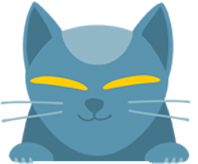
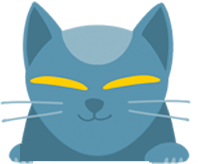
Add files via upload
В блоке услуг добавлен кот.

Changed region(s): [[0.0909, 0.8537, 0.2727, 1.0]]

diff --git a/styles.css b/styles.css
@@ -217,12 +217,38 @@ button{
 	text-align: center;
 }
 
+.services_cat1 {
+    z-index: 1;
+    position: absolute;
+    bottom: -5px;
+    justify-self: center;
+    text-align: center;
+}
+
+.services_cat2{
+    z-index: 0;
+    position: absolute;
+    bottom: -5px;
+    justify-self: center;
+    text-align: center;
+}
+
+.services_cat1 img {
+    min-width: 198px;
+    min-height: 164px;
+}
+
+.services_cat2 img {
+    min-width: 198px;
+    min-height: 164px;
+}
+
 #s_triangles{
 	position: absolute;
 	bottom: 0;
 	right: 0;
 	height: 18px;
-	margin-bottom: -5px;
+	margin-bottom: 0px;
 	width: 100%;
 	background-position: right;
 	background-image: url(img/spikes_light.png);
@@ -1093,8 +1119,8 @@ button{
 	
 	.services{
 		background-color: #272c46;
-		grid-template-rows: 190px  repeat(5, 170px) 1fr;
-		min-height: 1150px;
+		grid-template-rows: 190px  repeat(5, 170px) 200px;
+		min-height: 1250px;
         font-size: 12px;
 	}
     .services img {
@@ -1143,12 +1169,28 @@ button{
    	grid-row-end: 7;	
 	justify-self: center;
 	}
+    .services_cat1{
+    bottom: -15px;
+	grid-column-start: 4;
+	grid-column-end: 5;
+   	grid-row-start: 7;
+   	grid-row-end: 8;	
+	}
+    .services_cat2{
+    bottom: -15px;
+	grid-column-start: 4;
+	grid-column-end: 5;
+   	grid-row-start: 7;
+   	grid-row-end: 8;	
+	}
+    
+    
 	@media(max-width: 399.9px){
 		
 		.services{
 		
-		grid-template-rows: 190px  repeat(5, 340px) 1fr;
-			min-height: 1900px;
+		grid-template-rows: 190px  repeat(5, 340px) 200px;
+			min-height: 2050px;
 	}
 		.services1{
 	grid-column-start: 2;
@@ -1186,6 +1228,21 @@ button{
    	grid-row-end: 7;	
 	justify-self: center;
 	}
+        
+        .services_cat1 {
+    bottom: 35px;
+    grid-column-start: 1;
+	grid-column-end: 5;
+   	grid-row-start: 7;
+   	grid-row-end: 8;
+    }
+         .services_cat2 {
+    bottom: 35px;
+    grid-column-start: 1;
+	grid-column-end: 5;
+   	grid-row-start: 7;
+   	grid-row-end: 8;	
+    }
 	}
 	.form1>h1{
 		grid-column-start: 2;
@@ -1552,7 +1609,7 @@ button{
     }
 	.services{
 		background-color: #272c46;
-		grid-template-rows: 190px repeat(5, 180px) 50px;
+		grid-template-rows: 190px repeat(5, 180px) 200px;
 		min-height: 1300px;
 		font-size: 13px;
 	}
@@ -1593,7 +1650,20 @@ button{
    		grid-row-end: 7;	
 		justify-self: center;
 	}
-
+    .services_cat1{
+        bottom: -15px;
+        grid-column-start: 9;
+		grid-column-end: 12;
+   		grid-row-start: 7;
+   		grid-row-end: 8;	
+    }
+    .services_cat2{
+        bottom: -15px;
+        grid-column-start: 9;
+		grid-column-end: 12;
+   		grid-row-start: 7;
+   		grid-row-end: 8;	
+    }
 	.form1>h1{
 		grid-column-start: 2;
 	  	grid-column-end: 14;
@@ -1891,8 +1961,8 @@ button{
     }
 	.services{
 		background-color: #272c46;
-		grid-template-rows: 190px repeat(5, 170px) 50px;
-		min-height: 1200px;
+		grid-template-rows: 190px repeat(5, 170px) 200px;
+		min-height: 1250px;
 	}
 	
 	.services1{
@@ -1930,7 +2000,15 @@ button{
 	   	grid-row-start: 6;
 	   	grid-row-end: 7;	
 		justify-self: center;
-	}	
+	}
+    .services_cat1, .services_cat2{
+        bottom: -15px;
+		grid-column-start: 9;
+		grid-column-end: 12;
+	   	grid-row-start: 7;
+	   	grid-row-end: 8;	
+	}
+    
 
 	.form1>h1{
 		grid-column-start: 2;
@@ -2214,8 +2292,9 @@ button{
 	
 	.services{
 		background-color: #272c46;
-		grid-template-rows: 190px 160px 0px 210px  1fr;	
-		min-height: 700px;
+		grid-template-rows: 190px 160px 0px 210px  200px;	
+        min-height: 760px;
+        max-height: 760px;
 	}
      .services_head {
         grid-column-start: 2;
@@ -2236,7 +2315,8 @@ button{
 	@media (max-height: 700px)
 	{
 		.services{
-		grid-template-rows: 190px calc(100vh - 470px) 0px 210px  1fr;	
+		grid-template-rows: 190px calc(100vh - 470px) 0px 210px  200px;	
+        min-height: calc(100vh + 130px);
 		}
 	}
 	.services1{
@@ -2276,6 +2356,12 @@ button{
    		grid-row-end: 3;	
 		justify-self:center;
 	}
+    .services_cat1, .services_cat2{
+		grid-column-start: 7;
+		grid-column-end: 9;
+   		grid-row-start: 5;
+   		grid-row-end: 6;	
+	}	
 
 	.form1>h1{
 		grid-column-start: 2;
@@ -2584,7 +2670,13 @@ button{
 	justify-self: center;
 		width: 160px;
 }
-
+    .services_cat1, .services_cat2{
+	grid-column-start: 7;
+	grid-column-end: 9;
+   	grid-row-start: 6;
+   	grid-row-end: 7;
+}
+    
 	.form1>h1{
 		grid-column-start: 2;
 	  	grid-column-end: 14;

diff --git a/index.html b/index.html
@@ -182,6 +182,8 @@
 			<p><b>Поддержка сайта</b></p>
 			<p>Lorem ipsum dolor sit amet, consectetur adipiscing elit. Cras placerat tortor ac dolor scelerisque, ut faucibus ante porta.</p>
 		</div>
+		<div class="services_cat1"><img src="img/cat_serv1.png" alt=""></div>
+		<div class="services_cat2"><img src="img/cat_serv2.png" alt=""></div>
 		<div id="s_triangles"></div>
 	</div>
 	
